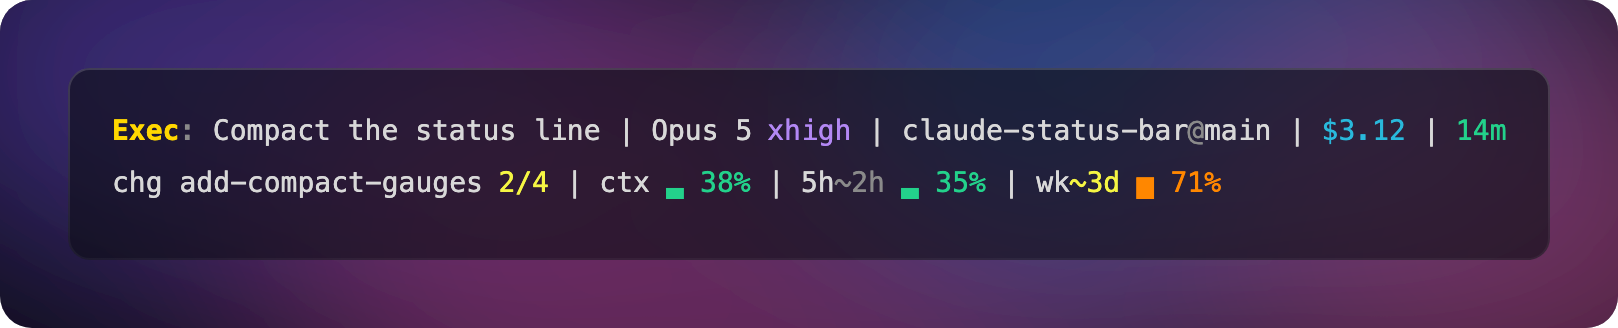
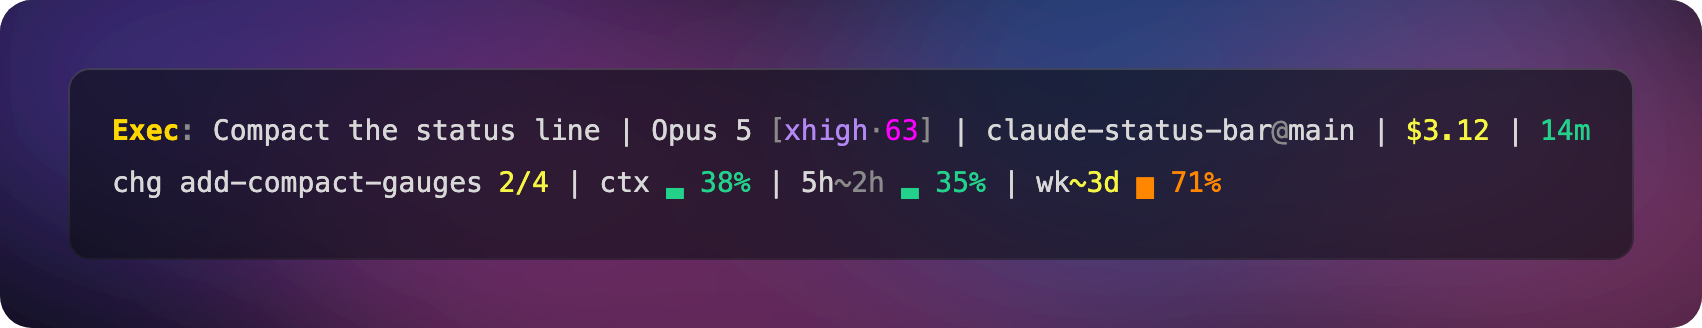
feat(statusline): show model intelligence and effort

Changed region(s): [[0.0618, 0.5183, 0.7726, 0.6098], [0.0618, 0.3659, 0.958, 0.4573]]

diff --git a/bin/claude-code-status.js b/bin/claude-code-status.js
@@ -345,21 +345,129 @@ process.stdin.on('end', () => {
       return `${c}${valStr} tok/s\x1b[0m`;
     })();
 
+    // ---- Intelligence score lookup and coloring ----
+    const colorIntelligence = (score) => {
+      if (score == null || !Number.isFinite(score)) return '';
+      const s = Math.round(score);
+      let c = '\x1b[38;5;245m'; // < 20: Economy / fast (muted slate grey)
+      if (s >= 60)      c = '\x1b[38;5;201m'; // >= 60: Next-Gen Reasoning (Magenta)
+      else if (s >= 50) c = '\x1b[38;5;51m';  // 50-59: Cutting-Edge Frontier (Electric Cyan)
+      else if (s >= 35) c = '\x1b[38;5;114m'; // 35-49: Flagship Reasoning (Emerald Green)
+      else if (s >= 20) c = '\x1b[38;5;220m'; // 20-34: Balanced Mid-tier (Amber Gold)
+      return `${c}${s}\x1b[0m`;
+    };
+
+    const getModelIntelligence = (modelId, modelName) => {
+      const dbPath = path.join(os.homedir(), '.omp', 'agent', 'models.db');
+      const cachePath = path.join(os.tmpdir(), 'claude-model-int-cache.json');
+      let map = null;
+
+      if (fs.existsSync(cachePath)) {
+        try {
+          const cacheMtime = fs.statSync(cachePath).mtimeMs;
+          const dbMtime = fs.existsSync(dbPath) ? fs.statSync(dbPath).mtimeMs : 0;
+          if (cacheMtime >= dbMtime) {
+            map = JSON.parse(fs.readFileSync(cachePath, 'utf8'));
+          }
+        } catch {}
+      }
+
+      if (!map && fs.existsSync(dbPath)) {
+        map = {};
+        try {
+          const { DatabaseSync } = require('node:sqlite');
+          const db = new DatabaseSync(dbPath, { readOnly: true });
+          const rows = db.prepare('SELECT models FROM model_cache').all();
+          for (const r of rows) {
+            try {
+              const list = JSON.parse(r.models);
+              for (const m of list) {
+                if (typeof m.int === 'number' && Number.isFinite(m.int)) {
+                  const bareId = m.id.includes('/') ? m.id.split('/').pop() : m.id;
+                  const cleanId = bareId.replace(/\[.*?\]/g, '').replace(/:thinking.*?$/g, '').trim().toLowerCase();
+                  map[m.id.toLowerCase()] = m.int;
+                  map[bareId.toLowerCase()] = m.int;
+                  map[cleanId] = m.int;
+                  if (m.name) {
+                    map[m.name.toLowerCase()] = m.int;
+                    map[m.name.toLowerCase().replace(/\s*\([^)]*\)\s*$/, '')] = m.int;
+                  }
+                }
+              }
+            } catch {}
+          }
+          db.close();
+          try { fs.writeFileSync(cachePath, JSON.stringify(map)); } catch {}
+        } catch {}
+      }
+
+      if (!map) return null;
+
+      const clean = (s) => (s || '').replace(/\[.*?\]/g, '').replace(/:thinking.*?$/g, '').replace(/^.*?\//, '').trim().toLowerCase();
+      if (modelId) {
+        const val = map[modelId.toLowerCase()] ?? map[clean(modelId)];
+        if (val !== undefined) return val;
+      }
+      if (modelName) {
+        const val = map[modelName.toLowerCase()] ?? map[clean(modelName)];
+        if (val !== undefined) return val;
+      }
+      return null;
+    };
+
     // ---- Line 1 (sections joined by |) ----
-    const effortVal = typeof d.effort === 'string' ? d.effort : d.effort?.level;
+    const rawEffort = (typeof d.effort === 'string' ? d.effort : d.effort?.level || '').toLowerCase();
+    const effortDisplayMap = {
+      minimal: 'minimal',
+      min: 'minimal',
+      lo: 'low',
+      low: 'low',
+      med: 'med',
+      medium: 'med',
+      mid: 'med',
+      hi: 'high',
+      high: 'high',
+      xhi: 'xhigh',
+      xhigh: 'xhigh',
+      'extra-high': 'xhigh',
+      max: 'max',
+      maximum: 'max',
+      auto: 'auto',
+    };
     const effortColorMap = {
+      minimal: '\x1b[38;5;245m',
       low: '\x1b[38;2;245;195;68m',                 // #F5C344 amber yellow
-      medium: '\x1b[38;2;108;184;110m',             // #6CB86E emerald green
+      med: '\x1b[38;2;108;184;110m',                 // #6CB86E emerald green
       high: '\x1b[38;2;179;185;244m',               // #B3B9F4 lavender
       xhigh: '\x1b[38;2;179;136;244m',              // #B388F4 lavender purple
     };
-    const effortStr = effortVal
-      ? (effortVal.toLowerCase() === 'max'
-          ? rainbow(effortVal)
-          : `${effortColorMap[effortVal.toLowerCase()] || ''}${effortVal}\x1b[0m`)
+    const effortShort = effortDisplayMap[rawEffort] || rawEffort;
+    const effortStr = effortShort
+      ? (effortShort === 'max'
+          ? rainbow('max')
+          : `${effortColorMap[effortShort] || '\x1b[38;5;245m'}${effortShort}\x1b[0m`)
       : '';
+
+    const intScore = getModelIntelligence(d.model?.id, d.model?.display_name || model);
+    const intStr = intScore != null ? colorIntelligence(intScore) : '';
+
+    const ob = '\x1b[38;5;245m[\x1b[0m';
+    const cb = '\x1b[38;5;245m]\x1b[0m';
+    const dot = '\x1b[38;5;245m·\x1b[0m';
+
+    let tag = '';
+    if (effortStr && intStr) {
+      tag = `${ob}${effortStr}${dot}${intStr}${cb}`;
+    } else if (intStr) {
+      tag = `${ob}${intStr}${cb}`;
+    } else if (effortStr) {
+      tag = `${ob}${effortStr}${cb}`;
+    }
+
+    const modelIndicator = tag ? `${model} ${tag}` : model;
+
     const dir = path.basename(cwd);
-    const L1 = [effortStr ? `${model} ${effortStr}` : model, branch ? `${dir}\x1b[38;5;245m@\x1b[0m${branch}` : dir];
+    const L1 = [modelIndicator, branch ? `${dir}\x1b[38;5;245m@\x1b[0m${branch}` : dir];
     if (d.cost?.total_cost_usd != null && d.cost.total_cost_usd > 0) {
       L1.push(`${costColor(d.cost.total_cost_usd)}$${d.cost.total_cost_usd.toFixed(2)}\x1b[0m`);
     }

diff --git a/bin/claude-code-status.test.js b/bin/claude-code-status.test.js
@@ -306,6 +306,31 @@ async function main() {
   fs.writeFileSync(path.join(chg, 'later-change-2', 'tasks.md'), '- [x] a\n- [ ] b\n');
   assert.equal(await chgSeg(), 'later-change', 'a longer id sharing the prefix stole the selection');
 
+
+  // intelligence score + effort formatting: e.g. "Gemini 3.7 Flash [high·56]"
+  const intRender = await render({
+    ...JSON.parse(STDIN_JSON),
+    model: { id: 'gemini-3.7-flash', display_name: 'Gemini 3.7 Flash' },
+    effort: 'high',
+  });
+  const intPlain = intRender.replace(/\x1b\[[0-9;]*m/g, '').split('\n')[0];
+  assert.ok(intPlain.includes('Gemini 3.7 Flash [high·56]'), `intelligence badge missing: ${JSON.stringify(intPlain)}`);
+  assert.ok(intRender.includes('\x1b[38;5;51m56\x1b[0m'), `frontier intelligence score not electric cyan: ${JSON.stringify(intRender)}`);
+
+  // only medium is shortened: medium -> med
+  const medRender = await render({
+    ...JSON.parse(STDIN_JSON),
+    model: { id: 'gemini-3.7-flash', display_name: 'Gemini 3.7 Flash' },
+    effort: 'medium',
+  });
+  assert.ok(medRender.includes('Gemini 3.7 Flash \x1b[38;5;245m[\x1b[0m\x1b[38;2;108;184;110mmed\x1b[0m\x1b[38;5;245m·\x1b[0m\x1b[38;5;51m56\x1b[0m\x1b[38;5;245m]\x1b[0m'), 'medium was not abbreviated to med');
+
+  const xhighRender = await render({
+    ...JSON.parse(STDIN_JSON),
+    model: { id: 'claude-opus-4-6', display_name: 'Claude Opus 4.6' },
+    effort: 'xhigh',
+  });
+  assert.ok(xhighRender.includes('Claude Opus 4.6 \x1b[38;5;245m[\x1b[0m\x1b[38;2;179;136;244mxhigh\x1b[0m\x1b[38;5;245m·\x1b[0m\x1b[38;5;114m39\x1b[0m\x1b[38;5;245m]\x1b[0m'), 'xhigh was unexpectedly abbreviated');
   console.log('ALL TESTS PASSED');
 }
 

diff --git a/bin/make-screenshot.js b/bin/make-screenshot.js
@@ -18,7 +18,7 @@ const ROOT = path.join(__dirname, '..');
 const out = path.join(ROOT, 'assets', 'statusline.svg');
 
 const PAYLOAD = {
-  model: { display_name: 'Opus 5 (1M context)' },
+  model: { id: 'claude-opus-5', display_name: 'Opus 5 (1M context)' },
   effort: 'xhigh',
   session_id: 'screenshot',
   workspace: { current_dir: null },   // filled in with a throwaway demo project below

diff --git a/README.md b/README.md
@@ -7,7 +7,8 @@
 Two-line Claude Code status line. The headline feature: the session's live **workflow
 phase** (`Plan:`, `Exec:`, `Verify:`, …) and its subject, color-coded and rewritten by the
 model itself as the work progresses. The rest is the session context you want on screen
-anyway.
+anyway. When the local OMP model catalog supplies a score, the model segment adds
+`[effort·intelligence]`; only `medium` is shortened, to `med`.
 
 ![status line showing the session phase](assets/statusline.png)
 
